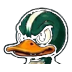
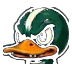
Simplify seat flairs for emoji-size readability.
Crop busy logos to their iconic region (helmet, bust, ring face, throne),
drop unreadable text and flecks, and refill the 72px transparent canvas.

diff --git a/index.html b/index.html
@@ -973,7 +973,7 @@
     const newsGone = new Set();
     let newsDelPending = null;
     let lens = "all";
-    const DATA_V = "20260831tipsup1";
+    const DATA_V = "20260831emoji2";
     /**
      * League home's five lists, in one place. They used to be five accordion packs stacked down
      * the screen, each with its own header and any number of them expanded at once; they are now
